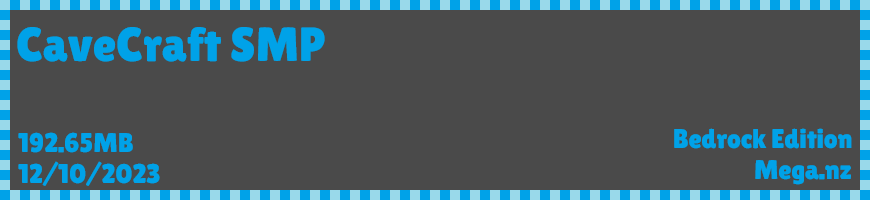
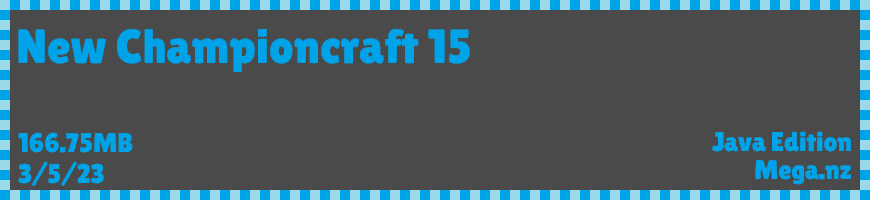
15 sky2

diff --git a/downloads/worlds/NCC/15/15.html b/downloads/worlds/NCC/15/15.html
@@ -3,7 +3,7 @@
 <head>
     <meta charset="UTF-8">
     <meta name="viewport" content="width=device-width, initial-scale=1.0">
-    <title>Simbian's Attic</title>
+    <title>New Championcraft 15 - Downloads - Simbian's Attic</title>
     <style>
         /* General Reset */
         * {
@@ -314,28 +314,19 @@
     <div class="main-container">
         <!-- Left Section -->
         <div class="left-section">
-            <div class="title">CaveCraft SMP</div>
-            <div class="text">World downloads for CaveCraft SMP<br>-Style: SMP<br>-Seed:  -615932630066931 1.18+/Bedrock<br><br>-Owner<br>Simbian<br>-Co-Owner<br>Flipswap, Bruhman<br>-Legacy Discord Admin<br>Rat3589, LunaMcClain, CloseAndreiCamera87<br>-Legacy Realm Admin<br>Rat3589, DR PUG, CloseAndreiCamera87<br>-Senior Admin<br>N/A<br>-Admin<br>N/A<br>-Helper<br>Memi<br><br>ℹ : Started September 15th 2023, Ended October 22nd 2023<br>⚠ : Tiles Addon V5.1.3 or later is required for full experience, get it at Downloads > Addons > Tiles Addon<br><br><br><br></div>
+            <div class="title">New Championcraft 15</div>
+            <div class="text">World downloads for New Championcraft 15<br>-Style: SMP<br>-Seed: -7727178341003194368 1.18+/Java<br><br>-Owner<br>Simbian<br>-Co-Owner<br>Flipswap, Bruhman<br>-Discord Admin<br>beam, LunaMcClain, CloseAndreiCamera87<br>-Realm Admin<br>beam, DR PUG, CloseAndreiCamera87, KonstantinosMP, Marko Black<br><br>ℹ Started April 20th 2023, Ended May 6th 2023<br>ℹ This was our first attempt at a full proper minecraft server<br><br><br><br></div>
         </div>
 
 
         <!-- Right Section -->
         <div class="right-section">
             <!-- Button 1 -->
-            <a class="button" style="background-image: url('31.png');" href="https://mega.nz/file/selDVIpb#b1yKq49YkV1WJB6kxenPQikeBeTu5ObEG_r5VG2c7w0"></a>
+            <a class="button" style="background-image: url('31.png');" href="https://mega.nz/file/wI8GkRRQ#aRgrs9nY_yHrFNaGDv4h9Mt92lW2NDSsvh2WmDMRoK0"></a>
             <!-- Button 2 -->
-            <a class="button" style="background-image: url('32.png');" href="https://mega.nz/file/cHszUADQ#5lRiDG9ei4Guptds27fvqN0_N4kVTUtm-dFs_YSGTKA"></a>
-            <a class="button" style="background-image: url('33.png');" href="https://mega.nz/file/db1iEKYR#PQmIJG6P1ago8NSm_T7nJnBfYZvqGL5A-px0b6cYsms"></a>
-            <a class="button" style="background-image: url('34.png');" href="https://mega.nz/file/tK8UwYwA#x2pxpwGcaKqJh_3ehh889GdIXBLowfJ4qYbHtJpp-vc"></a>
-            <a class="button" style="background-image: url('35.png');" href="https://mega.nz/file/IP00hRha#XQDUGx2ME7iStImUgA7w68A7bwSgF1ibPyjz_ObjPUs"></a>
-            <a class="button" style="background-image: url('36.png');" href="https://mega.nz/file/oDtAlCaD#4YBumGxsEdEBSc3zvorspC-sjweO6doZpJR3HecQvGg"></a>
-            <a class="button" style="background-image: url('37.png');" href="https://mega.nz/file/9TFkmbjA#h4f77nFHVzlarADLotqUvhlzDwsuHfZ3jzUvtBy2_BU"></a>
-            <a class="button" style="background-image: url('38.png');" href="https://mega.nz/file/9L92ECQQ#OA7ZWOFeB5uPSz5ZntsnAwXItDM-46W7Dmbpbh0X5BU"></a>
-            <a class="button" style="background-image: url('39.png');" href="https://mega.nz/file/4G8AiC7L#fvYh-9599OJf1kNatmZOVmyN85ITe_PQCcrWpUXwFIg"></a>
-            <a class="button" style="background-image: url('310.png');" href="https://mega.nz/file/IStSUYaB#e6d-GIQpIfR_sqIh-GGF97JKzEHgGY3rF7q74JbnAZE"></a>
-            <a class="button" style="background-image: url('311.png');" href="https://mega.nz/file/9HFjFAwJ#HTbkjOd6_p2cCqV7eJjC3FU7UHxdoDxbOycHy7a8Gsc"></a>
-            <div class="title">More backups are available</div>
-            <div class="text">Request other downloads in my discord server (find it in Link Tree)</div>
+            <a class="button" style="background-image: url('32.png');" href="https://mega.nz/file/wAMEmZ6I#iWo1PiEDw03wzOh3j1SXavboWsG6Dti2Uo6eqy_VSx4"></a>
+            <a class="button" style="background-image: url('33.png');" href="https://mega.nz/file/ZNVAAa6C#nqNWONgPXOUySovrHc9nT535gOUEGQclGNcOSV4-meo"></a>
+
         </div>
     <!-- Footer -->
     

diff --git a/downloads/worlds/NCC/Sky2/Sky2.html b/downloads/worlds/NCC/Sky2/Sky2.html
@@ -3,7 +3,7 @@
 <head>
     <meta charset="UTF-8">
     <meta name="viewport" content="width=device-width, initial-scale=1.0">
-    <title>Simbian's Attic</title>
+    <title>New Championcraft Skyblock 2 - Downloads - Simbian's Attic</title>
     <style>
         /* General Reset */
         * {
@@ -314,28 +314,18 @@
     <div class="main-container">
         <!-- Left Section -->
         <div class="left-section">
-            <div class="title">CaveCraft SMP</div>
-            <div class="text">World downloads for CaveCraft SMP<br>-Style: SMP<br>-Seed:  -615932630066931 1.18+/Bedrock<br><br>-Owner<br>Simbian<br>-Co-Owner<br>Flipswap, Bruhman<br>-Legacy Discord Admin<br>Rat3589, LunaMcClain, CloseAndreiCamera87<br>-Legacy Realm Admin<br>Rat3589, DR PUG, CloseAndreiCamera87<br>-Senior Admin<br>N/A<br>-Admin<br>N/A<br>-Helper<br>Memi<br><br>ℹ : Started September 15th 2023, Ended October 22nd 2023<br>⚠ : Tiles Addon V5.1.3 or later is required for full experience, get it at Downloads > Addons > Tiles Addon<br><br><br><br></div>
+            <div class="title">New Championcraft Skyblock 2</div>
+            <div class="text">World downloads for New Championcraft Skyblock 2<br>-Style: Skyblock<br>-Seed: None<br><br>ℹ Started September 28th 2021, Ended June 16th 2023<br>ℹ This was a Java Aternos server because it was supposed to be a part of New Championcraft 9<br>ℹ LunaMcClain Streamed on this server and stood in front of a tree for 30 minutes<br><br><br><br></div>
         </div>
 
 
         <!-- Right Section -->
         <div class="right-section">
             <!-- Button 1 -->
-            <a class="button" style="background-image: url('31.png');" href="https://mega.nz/file/selDVIpb#b1yKq49YkV1WJB6kxenPQikeBeTu5ObEG_r5VG2c7w0"></a>
+            <a class="button" style="background-image: url('31.png');" href="https://mega.nz/file/gVcxWTrZ#IZGbXZ27C1BorazCQ5GjQrXkmAsShrYguKN0TKmoUbs"></a>
             <!-- Button 2 -->
-            <a class="button" style="background-image: url('32.png');" href="https://mega.nz/file/cHszUADQ#5lRiDG9ei4Guptds27fvqN0_N4kVTUtm-dFs_YSGTKA"></a>
-            <a class="button" style="background-image: url('33.png');" href="https://mega.nz/file/db1iEKYR#PQmIJG6P1ago8NSm_T7nJnBfYZvqGL5A-px0b6cYsms"></a>
-            <a class="button" style="background-image: url('34.png');" href="https://mega.nz/file/tK8UwYwA#x2pxpwGcaKqJh_3ehh889GdIXBLowfJ4qYbHtJpp-vc"></a>
-            <a class="button" style="background-image: url('35.png');" href="https://mega.nz/file/IP00hRha#XQDUGx2ME7iStImUgA7w68A7bwSgF1ibPyjz_ObjPUs"></a>
-            <a class="button" style="background-image: url('36.png');" href="https://mega.nz/file/oDtAlCaD#4YBumGxsEdEBSc3zvorspC-sjweO6doZpJR3HecQvGg"></a>
-            <a class="button" style="background-image: url('37.png');" href="https://mega.nz/file/9TFkmbjA#h4f77nFHVzlarADLotqUvhlzDwsuHfZ3jzUvtBy2_BU"></a>
-            <a class="button" style="background-image: url('38.png');" href="https://mega.nz/file/9L92ECQQ#OA7ZWOFeB5uPSz5ZntsnAwXItDM-46W7Dmbpbh0X5BU"></a>
-            <a class="button" style="background-image: url('39.png');" href="https://mega.nz/file/4G8AiC7L#fvYh-9599OJf1kNatmZOVmyN85ITe_PQCcrWpUXwFIg"></a>
-            <a class="button" style="background-image: url('310.png');" href="https://mega.nz/file/IStSUYaB#e6d-GIQpIfR_sqIh-GGF97JKzEHgGY3rF7q74JbnAZE"></a>
-            <a class="button" style="background-image: url('311.png');" href="https://mega.nz/file/9HFjFAwJ#HTbkjOd6_p2cCqV7eJjC3FU7UHxdoDxbOycHy7a8Gsc"></a>
-            <div class="title">More backups are available</div>
-            <div class="text">Request other downloads in my discord server (find it in Link Tree)</div>
+            <a class="button" style="background-image: url('32.png');" href="https://mega.nz/file/EIlwgYLa#ymLKwZmKOWEuxkf7KCm0JxTrY5SZUGMkQto5qk_yno4"></a>
+            
         </div>
     <!-- Footer -->
     

diff --git a/downloads/worlds/NCC/NCC.html b/downloads/worlds/NCC/NCC.html
@@ -223,8 +223,8 @@
         <a class="button" style="background-image: url('DB13.png');"href="https://simbiantech.github.io/Site/downloads/worlds/NCC/12/12.html"></a>
         <a class="button" style="background-image: url('DB14.png');"href="https://simbiantech.github.io/Site/downloads/worlds/NCC/13/13.html"></a>
         <a class="button" style="background-image: url('DB15.png');"href="https://simbiantech.github.io/Site/downloads/worlds/NCC/14/14.html"></a>
-        <!--<a class="button" style="background-image: url('DB16.png');"href="https://simbiantech.github.io/Site/downloads/worlds/NCC/15/15.html"></a>-->
-        <!--<a class="button" style="background-image: url('DB17.png');"href="https://simbiantech.github.io/Site/downloads/worlds/NCC/Sky2/Sky2.html"></a>-->
+        <a class="button" style="background-image: url('DB16.png');"href="https://simbiantech.github.io/Site/downloads/worlds/NCC/15/15.html"></a>
+        <a class="button" style="background-image: url('DB17.png');"href="https://simbiantech.github.io/Site/downloads/worlds/NCC/Sky2/Sky2.html"></a>
         
     </div>
 
